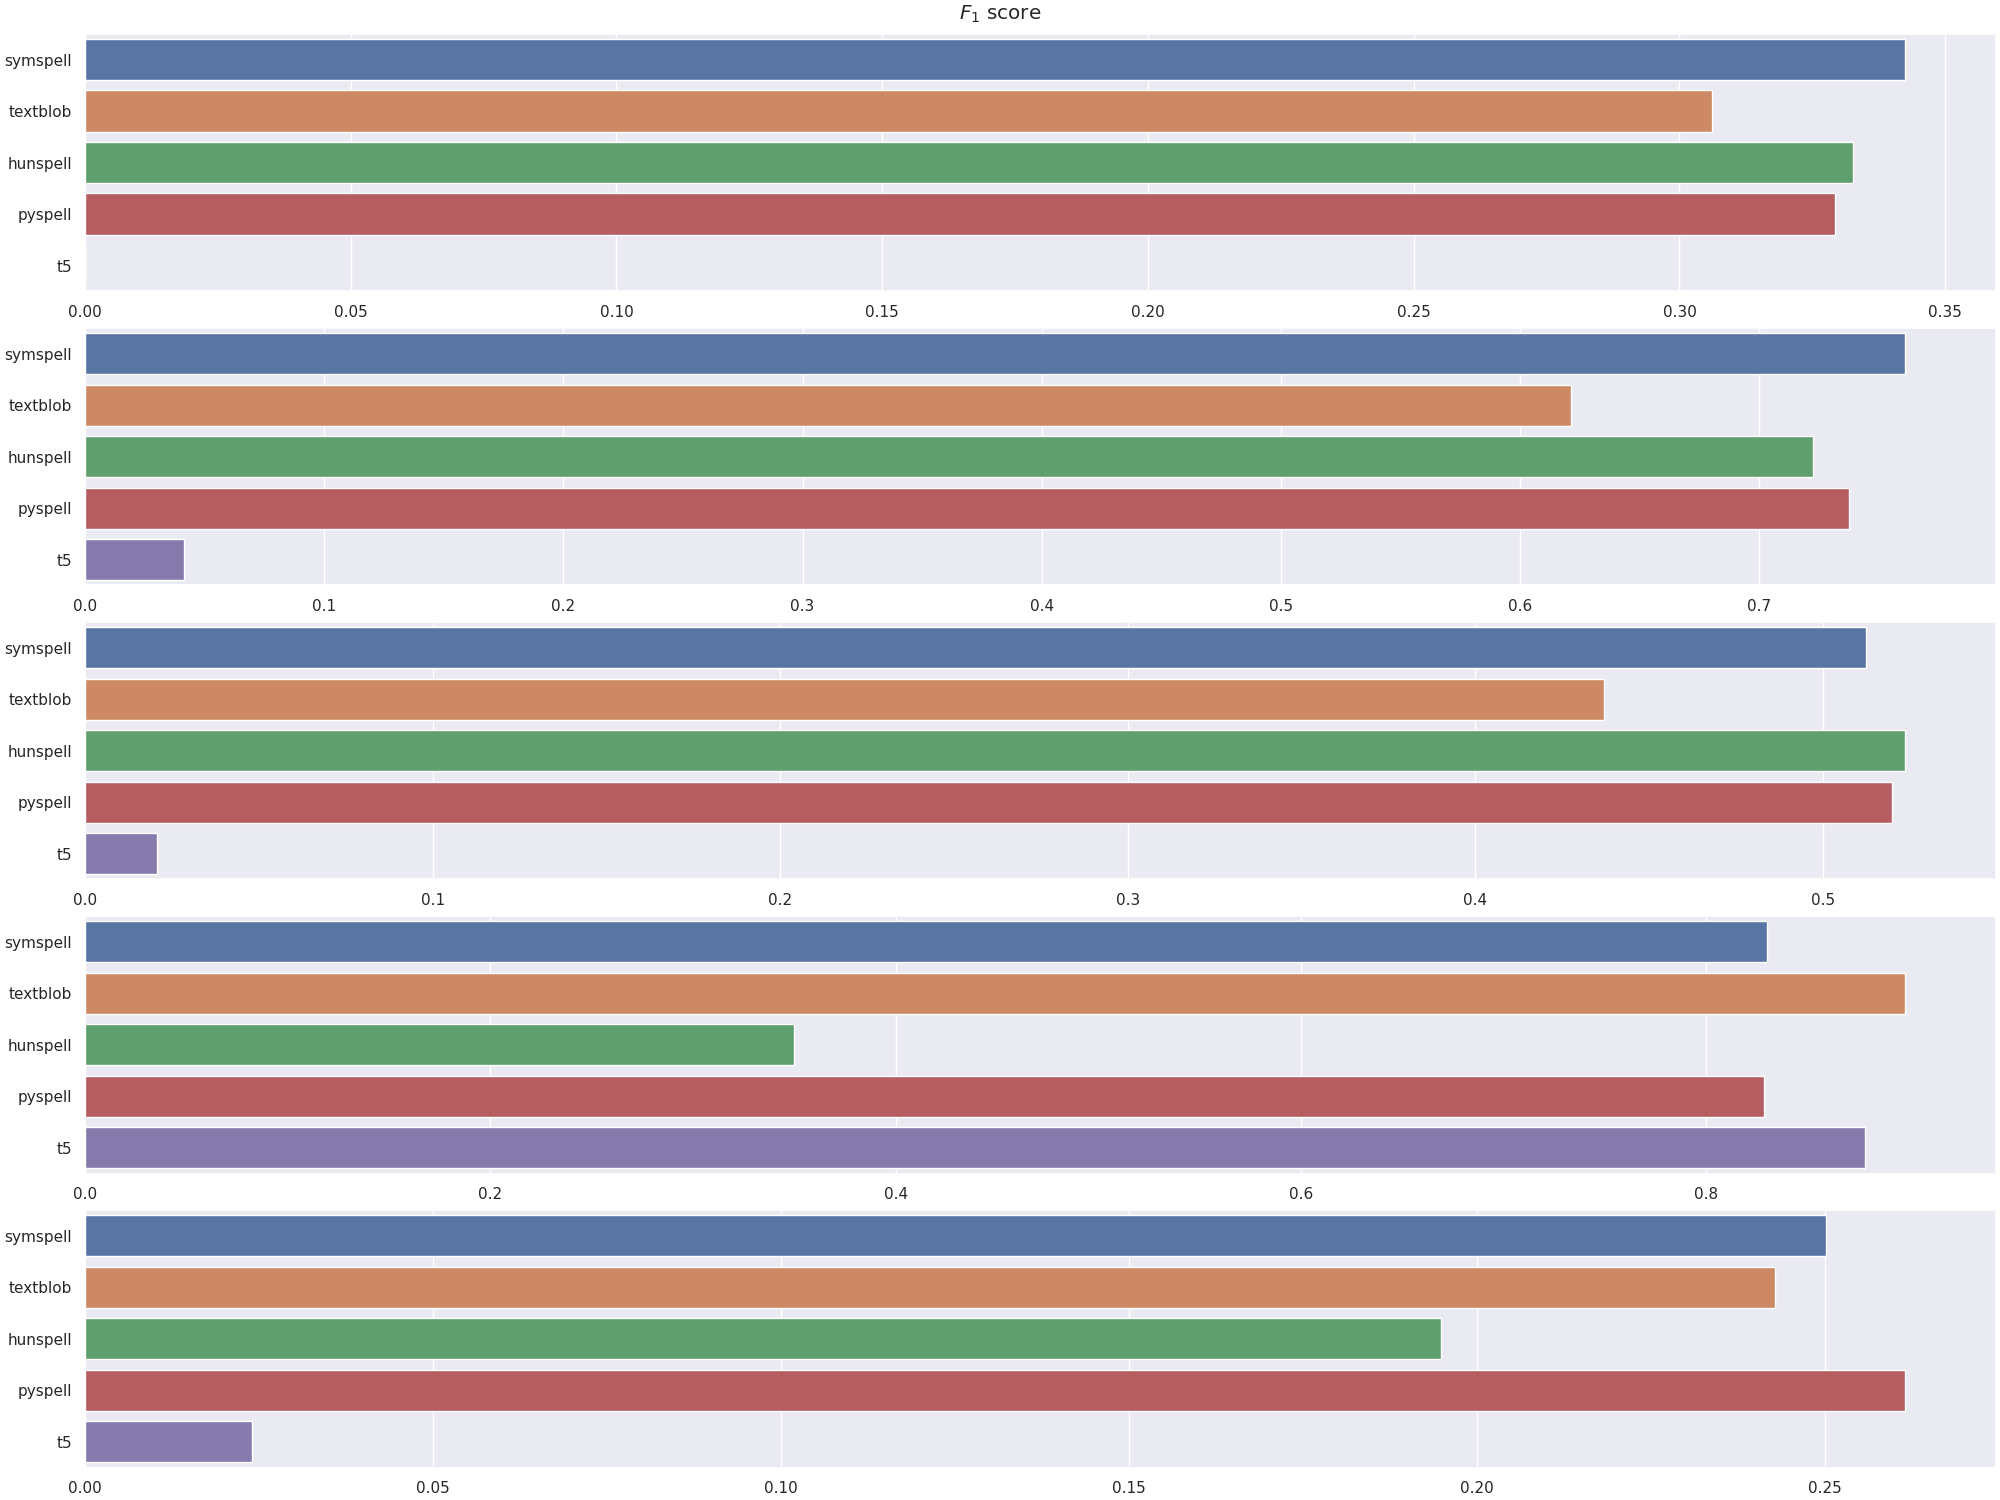
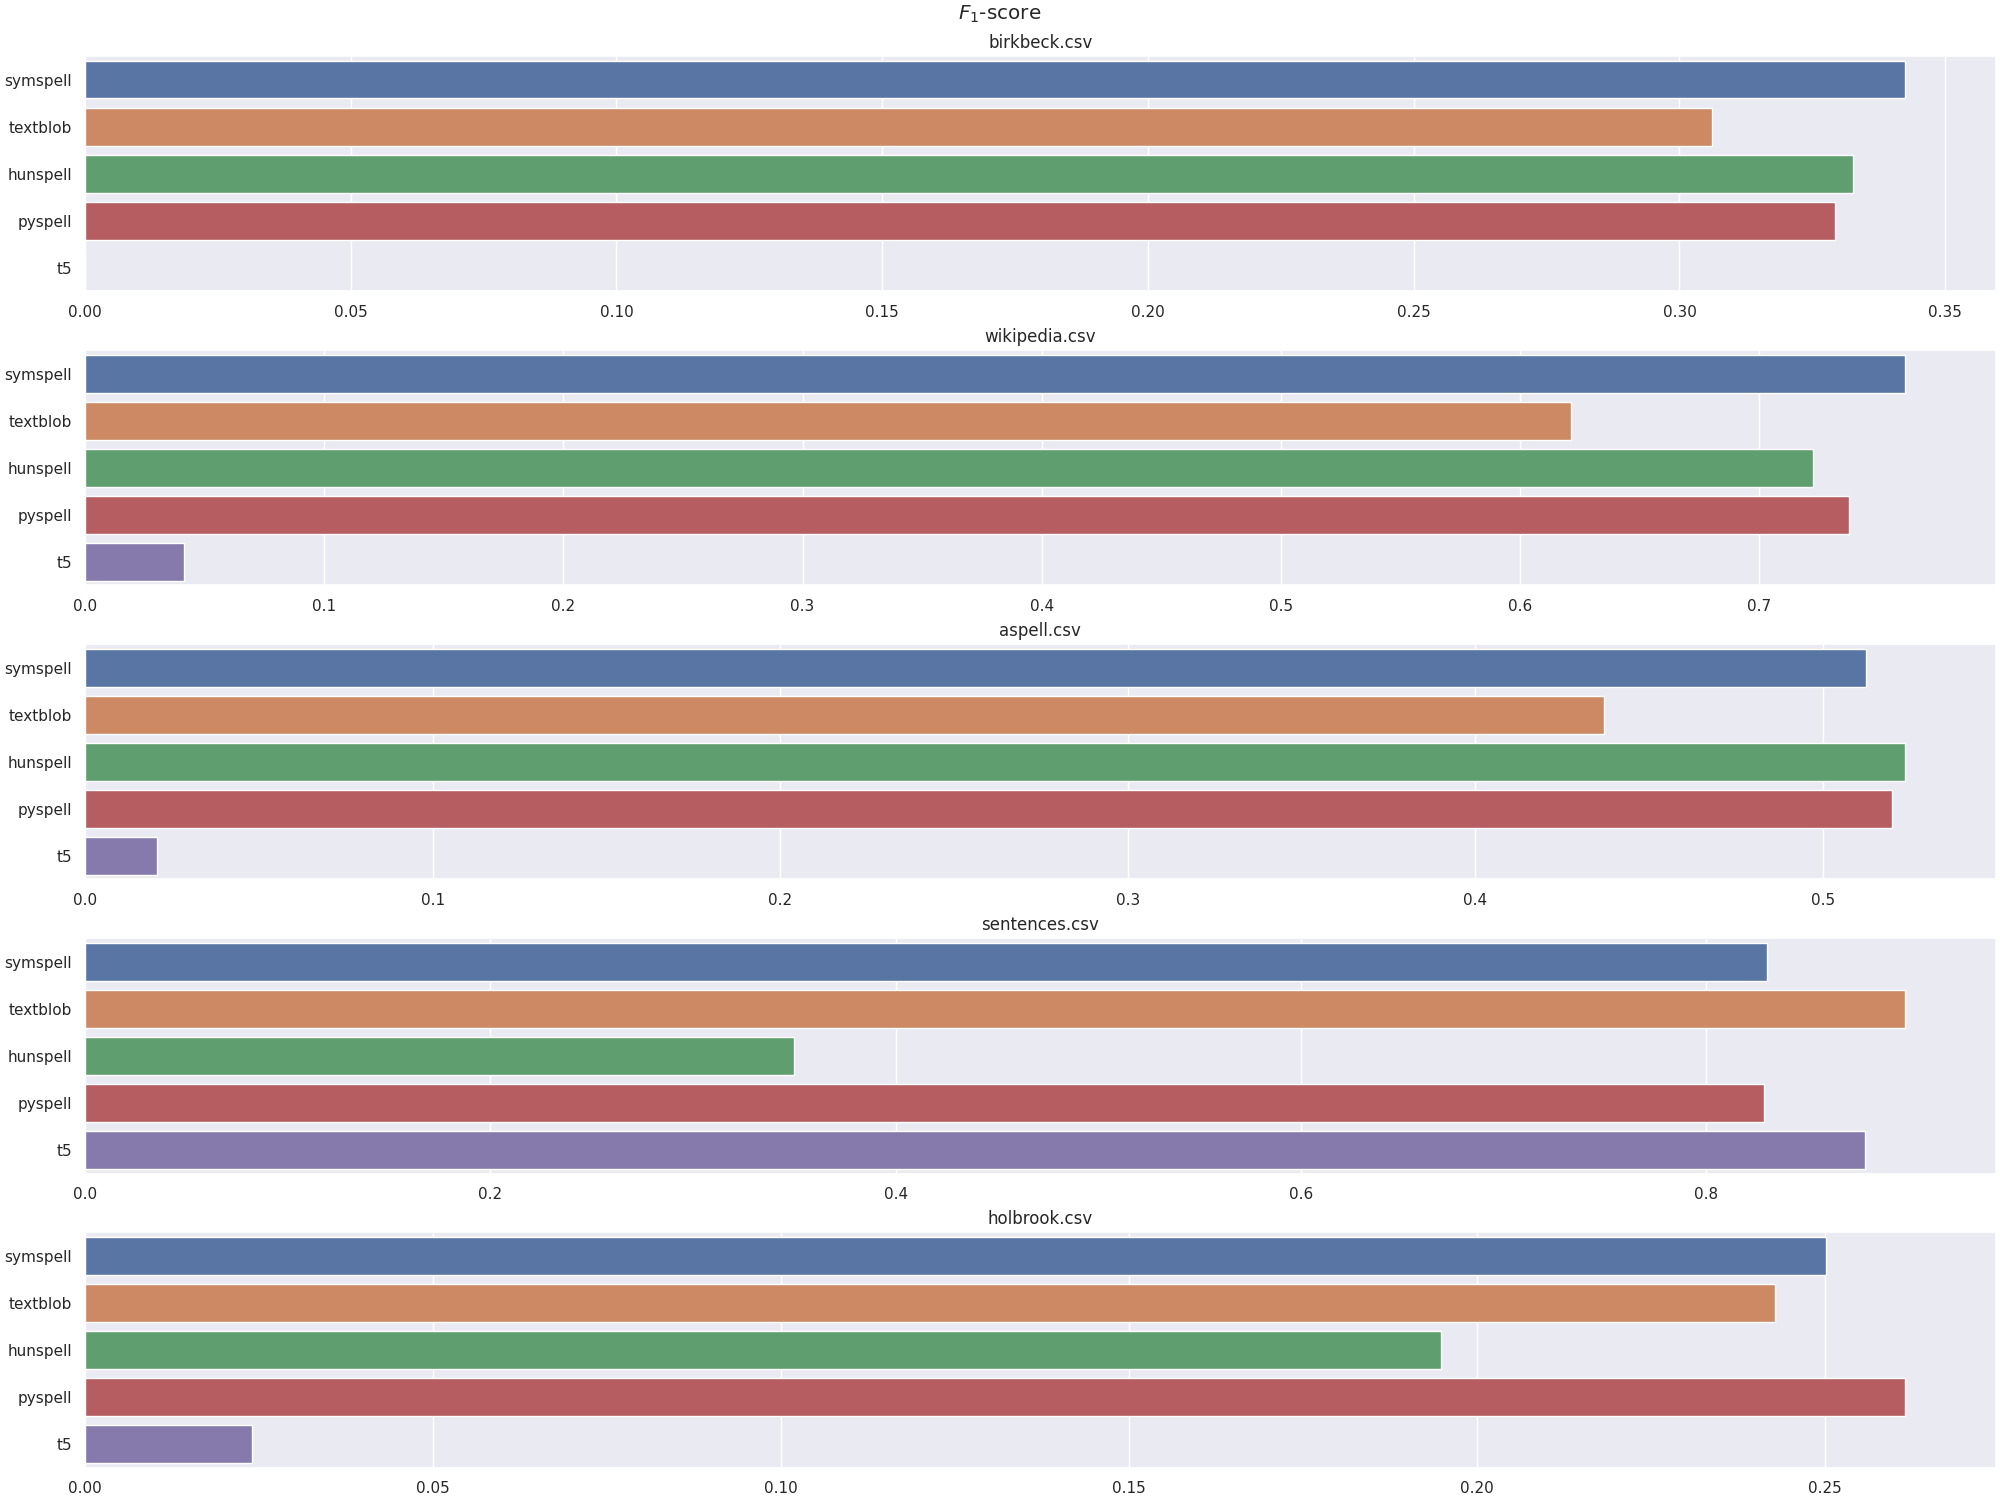
Fixed plotting

diff --git a/gen_plots.py b/gen_plots.py
@@ -42,6 +42,7 @@ def generate_plot(mtr: str):
                 metrics[k][metrics[k]['dataset'] == file][mtr].iloc[0]
             )
 
+        axs[i].set_title(file)
         sns.barplot(
             x=val_lst,
             y=mdl_lst,
@@ -52,17 +53,11 @@ def generate_plot(mtr: str):
     return fig, axs
 
 
-lat_fig, lat_axs = generate_plot('latency')
-
-
-lat_fig.suptitle('Latency [ms]')
-lat_fig.savefig('plots/latency.png')
-
 metr2plot = {
     'latency': 'Latency [ms]',
     'precision': 'Precision',
     'recall': 'Recall',
-    'f1': '$F_{1}$ score'
+    'f1': '$F_{1}$-score'
 }
 
 for mtr in metr2plot.keys():
